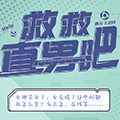
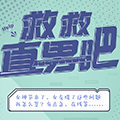
g

diff --git a/works/local/h5-game/2019-jineng/js/pace.min.js b/works/local/h5-game/2019-jineng/js/pace.min.js
@@ -1,3 +1,2 @@
 /*! pace 1.0.0 */
 (function(){var a,b,c,d,e,f,g,h,i,j,k,l,m,n,o,p,q,r,s,t,u,v,w,x,y,z,A,B,C,D,E,F,G,H,I,J,K,L,M,N,O,P,Q,R,S,T,U,V,W,X=[].slice,Y={}.hasOwnProperty,Z=function(a,b){function c(){this.constructor=a}for(var d in b)Y.call(b,d)&&(a[d]=b[d]);return c.prototype=b.prototype,a.prototype=new c,a.__super__=b.prototype,a},$=[].indexOf||function(a){for(var b=0,c=this.length;c>b;b++)if(b in this&&this[b]===a)return b;return-1};for(u={catchupTime:100,initialRate:.03,minTime:250,ghostTime:100,maxProgressPerFrame:20,easeFactor:1.25,startOnPageLoad:!0,restartOnPushState:!0,restartOnRequestAfter:500,target:"body",elements:{checkInterval:100,selectors:["body"]},eventLag:{minSamples:10,sampleCount:3,lagThreshold:3},ajax:{trackMethods:["GET"],trackWebSockets:!0,ignoreURLs:[]}},C=function(){var a;return null!=(a="undefined"!=typeof performance&&null!==performance&&"function"==typeof performance.now?performance.now():void 0)?a:+new Date},E=window.requestAnimationFrame||window.mozRequestAnimationFrame||window.webkitRequestAnimationFrame||window.msRequestAnimationFrame,t=window.cancelAnimationFrame||window.mozCancelAnimationFrame,null==E&&(E=function(a){return setTimeout(a,50)},t=function(a){return clearTimeout(a)}),G=function(a){var b,c;return b=C(),(c=function(){var d;return d=C()-b,d>=33?(b=C(),a(d,function(){return E(c)})):setTimeout(c,33-d)})()},F=function(){var a,b,c;return c=arguments[0],b=arguments[1],a=3<=arguments.length?X.call(arguments,2):[],"function"==typeof c[b]?c[b].apply(c,a):c[b]},v=function(){var a,b,c,d,e,f,g;for(b=arguments[0],d=2<=arguments.length?X.call(arguments,1):[],f=0,g=d.length;g>f;f++)if(c=d[f])for(a in c)Y.call(c,a)&&(e=c[a],null!=b[a]&&"object"==typeof b[a]&&null!=e&&"object"==typeof e?v(b[a],e):b[a]=e);return b},q=function(a){var b,c,d,e,f;for(c=b=0,e=0,f=a.length;f>e;e++)d=a[e],c+=Math.abs(d),b++;return c/b},x=function(a,b){var c,d,e;if(null==a&&(a="options"),null==b&&(b=!0),e=document.querySelector("[data-pace-"+a+"]")){if(c=e.getAttribute("data-pace-"+a),!b)return c;try{return JSON.parse(c)}catch(f){return d=f,"undefined"!=typeof console&&null!==console?console.error("Error parsing inline pace options",d):void 0}}},g=function(){function a(){}return a.prototype.on=function(a,b,c,d){var e;return null==d&&(d=!1),null==this.bindings&&(this.bindings={}),null==(e=this.bindings)[a]&&(e[a]=[]),this.bindings[a].push({handler:b,ctx:c,once:d})},a.prototype.once=function(a,b,c){return this.on(a,b,c,!0)},a.prototype.off=function(a,b){var c,d,e;if(null!=(null!=(d=this.bindings)?d[a]:void 0)){if(null==b)return delete this.bindings[a];for(c=0,e=[];c<this.bindings[a].length;)e.push(this.bindings[a][c].handler===b?this.bindings[a].splice(c,1):c++);return e}},a.prototype.trigger=function(){var a,b,c,d,e,f,g,h,i;if(c=arguments[0],a=2<=arguments.length?X.call(arguments,1):[],null!=(g=this.bindings)?g[c]:void 0){for(e=0,i=[];e<this.bindings[c].length;)h=this.bindings[c][e],d=h.handler,b=h.ctx,f=h.once,d.apply(null!=b?b:this,a),i.push(f?this.bindings[c].splice(e,1):e++);return i}},a}(),j=window.Pace||{},window.Pace=j,v(j,g.prototype),D=j.options=v({},u,window.paceOptions,x()),U=["ajax","document","eventLag","elements"],Q=0,S=U.length;S>Q;Q++)K=U[Q],D[K]===!0&&(D[K]=u[K]);i=function(a){function b(){return V=b.__super__.constructor.apply(this,arguments)}return Z(b,a),b}(Error),b=function(){function a(){this.progress=0}return a.prototype.getElement=function(){var a;if(null==this.el){if(a=document.querySelector(D.target),!a)throw new i;this.el=document.createElement("div"),this.el.className="pace pace-active",document.body.className=document.body.className.replace(/pace-done/g,""),document.body.className+=" pace-running",this.el.innerHTML='<div class="pace-progress">\n  <div class="pace-progress-inner"></div>\n</div>\n<div class="pace-activity"></div>',null!=a.firstChild?a.insertBefore(this.el,a.firstChild):a.appendChild(this.el)}return this.el},a.prototype.finish=function(){var a;return a=this.getElement(),a.className=a.className.replace("pace-active",""),a.className+=" pace-inactive",document.body.className=document.body.className.replace("pace-running",""),document.body.className+=" pace-done"},a.prototype.update=function(a){return this.progress=a,this.render()},a.prototype.destroy=function(){try{this.getElement().parentNode.removeChild(this.getElement())}catch(a){i=a}return this.el=void 0},a.prototype.render=function(){var a,b,c,d,e,f,g;if(null==document.querySelector(D.target))return!1;for(a=this.getElement(),d="translate3d("+this.progress+"%, 0, 0)",g=["webkitTransform","msTransform","transform"],e=0,f=g.length;f>e;e++)b=g[e],a.children[0].style[b]=d;return(!this.lastRenderedProgress||this.lastRenderedProgress|0!==this.progress|0)&&(a.children[0].setAttribute("data-progress-text",""+(0|this.progress)+"%"),this.progress>=100?c="99":(c=this.progress<10?"0":"",c+=0|this.progress),a.children[0].setAttribute("data-progress",""+c)),this.lastRenderedProgress=this.progress},a.prototype.done=function(){return this.progress>=100},a}(),h=function(){function a(){this.bindings={}}return a.prototype.trigger=function(a,b){var c,d,e,f,g;if(null!=this.bindings[a]){for(f=this.bindings[a],g=[],d=0,e=f.length;e>d;d++)c=f[d],g.push(c.call(this,b));return g}},a.prototype.on=function(a,b){var c;return null==(c=this.bindings)[a]&&(c[a]=[]),this.bindings[a].push(b)},a}(),P=window.XMLHttpRequest,O=window.XDomainRequest,N=window.WebSocket,w=function(a,b){var c,d,e,f;f=[];for(d in b.prototype)try{e=b.prototype[d],f.push(null==a[d]&&"function"!=typeof e?a[d]=e:void 0)}catch(g){c=g}return f},A=[],j.ignore=function(){var a,b,c;return b=arguments[0],a=2<=arguments.length?X.call(arguments,1):[],A.unshift("ignore"),c=b.apply(null,a),A.shift(),c},j.track=function(){var a,b,c;return b=arguments[0],a=2<=arguments.length?X.call(arguments,1):[],A.unshift("track"),c=b.apply(null,a),A.shift(),c},J=function(a){var b;if(null==a&&(a="GET"),"track"===A[0])return"force";if(!A.length&&D.ajax){if("socket"===a&&D.ajax.trackWebSockets)return!0;if(b=a.toUpperCase(),$.call(D.ajax.trackMethods,b)>=0)return!0}return!1},k=function(a){function b(){var a,c=this;b.__super__.constructor.apply(this,arguments),a=function(a){var b;return b=a.open,a.open=function(d,e){return J(d)&&c.trigger("request",{type:d,url:e,request:a}),b.apply(a,arguments)}},window.XMLHttpRequest=function(b){var c;return c=new P(b),a(c),c};try{w(window.XMLHttpRequest,P)}catch(d){}if(null!=O){window.XDomainRequest=function(){var b;return b=new O,a(b),b};try{w(window.XDomainRequest,O)}catch(d){}}if(null!=N&&D.ajax.trackWebSockets){window.WebSocket=function(a,b){var d;return d=null!=b?new N(a,b):new N(a),J("socket")&&c.trigger("request",{type:"socket",url:a,protocols:b,request:d}),d};try{w(window.WebSocket,N)}catch(d){}}}return Z(b,a),b}(h),R=null,y=function(){return null==R&&(R=new k),R},I=function(a){var b,c,d,e;for(e=D.ajax.ignoreURLs,c=0,d=e.length;d>c;c++)if(b=e[c],"string"==typeof b){if(-1!==a.indexOf(b))return!0}else if(b.test(a))return!0;return!1},y().on("request",function(b){var c,d,e,f,g;return f=b.type,e=b.request,g=b.url,I(g)?void 0:j.running||D.restartOnRequestAfter===!1&&"force"!==J(f)?void 0:(d=arguments,c=D.restartOnRequestAfter||0,"boolean"==typeof c&&(c=0),setTimeout(function(){var b,c,g,h,i,k;if(b="socket"===f?e.readyState<2:0<(h=e.readyState)&&4>h){for(j.restart(),i=j.sources,k=[],c=0,g=i.length;g>c;c++){if(K=i[c],K instanceof a){K.watch.apply(K,d);break}k.push(void 0)}return k}},c))}),a=function(){function a(){var a=this;this.elements=[],y().on("request",function(){return a.watch.apply(a,arguments)})}return a.prototype.watch=function(a){var b,c,d,e;return d=a.type,b=a.request,e=a.url,I(e)?void 0:(c="socket"===d?new n(b):new o(b),this.elements.push(c))},a}(),o=function(){function a(a){var b,c,d,e,f,g,h=this;if(this.progress=0,null!=window.ProgressEvent)for(c=null,a.addEventListener("progress",function(a){return h.progress=a.lengthComputable?100*a.loaded/a.total:h.progress+(100-h.progress)/2},!1),g=["load","abort","timeout","error"],d=0,e=g.length;e>d;d++)b=g[d],a.addEventListener(b,function(){return h.progress=100},!1);else f=a.onreadystatechange,a.onreadystatechange=function(){var b;return 0===(b=a.readyState)||4===b?h.progress=100:3===a.readyState&&(h.progress=50),"function"==typeof f?f.apply(null,arguments):void 0}}return a}(),n=function(){function a(a){var b,c,d,e,f=this;for(this.progress=0,e=["error","open"],c=0,d=e.length;d>c;c++)b=e[c],a.addEventListener(b,function(){return f.progress=100},!1)}return a}(),d=function(){function a(a){var b,c,d,f;for(null==a&&(a={}),this.elements=[],null==a.selectors&&(a.selectors=[]),f=a.selectors,c=0,d=f.length;d>c;c++)b=f[c],this.elements.push(new e(b))}return a}(),e=function(){function a(a){this.selector=a,this.progress=0,this.check()}return a.prototype.check=function(){var a=this;return document.querySelector(this.selector)?this.done():setTimeout(function(){return a.check()},D.elements.checkInterval)},a.prototype.done=function(){return this.progress=100},a}(),c=function(){function a(){var a,b,c=this;this.progress=null!=(b=this.states[document.readyState])?b:100,a=document.onreadystatechange,document.onreadystatechange=function(){return null!=c.states[document.readyState]&&(c.progress=c.states[document.readyState]),"function"==typeof a?a.apply(null,arguments):void 0}}return a.prototype.states={loading:0,interactive:50,complete:100},a}(),f=function(){function a(){var a,b,c,d,e,f=this;this.progress=0,a=0,e=[],d=0,c=C(),b=setInterval(function(){var g;return g=C()-c-50,c=C(),e.push(g),e.length>D.eventLag.sampleCount&&e.shift(),a=q(e),++d>=D.eventLag.minSamples&&a<D.eventLag.lagThreshold?(f.progress=100,clearInterval(b)):f.progress=100*(3/(a+3))},50)}return a}(),m=function(){function a(a){this.source=a,this.last=this.sinceLastUpdate=0,this.rate=D.initialRate,this.catchup=0,this.progress=this.lastProgress=0,null!=this.source&&(this.progress=F(this.source,"progress"))}return a.prototype.tick=function(a,b){var c;return null==b&&(b=F(this.source,"progress")),b>=100&&(this.done=!0),b===this.last?this.sinceLastUpdate+=a:(this.sinceLastUpdate&&(this.rate=(b-this.last)/this.sinceLastUpdate),this.catchup=(b-this.progress)/D.catchupTime,this.sinceLastUpdate=0,this.last=b),b>this.progress&&(this.progress+=this.catchup*a),c=1-Math.pow(this.progress/100,D.easeFactor),this.progress+=c*this.rate*a,this.progress=Math.min(this.lastProgress+D.maxProgressPerFrame,this.progress),this.progress=Math.max(0,this.progress),this.progress=Math.min(100,this.progress),this.lastProgress=this.progress,this.progress},a}(),L=null,H=null,r=null,M=null,p=null,s=null,j.running=!1,z=function(){return D.restartOnPushState?j.restart():void 0},null!=window.history.pushState&&(T=window.history.pushState,window.history.pushState=function(){return z(),T.apply(window.history,arguments)}),null!=window.history.replaceState&&(W=window.history.replaceState,window.history.replaceState=function(){return z(),W.apply(window.history,arguments)}),l={ajax:a,elements:d,document:c,eventLag:f},(B=function(){var a,c,d,e,f,g,h,i;for(j.sources=L=[],g=["ajax","elements","document","eventLag"],c=0,e=g.length;e>c;c++)a=g[c],D[a]!==!1&&L.push(new l[a](D[a]));for(i=null!=(h=D.extraSources)?h:[],d=0,f=i.length;f>d;d++)K=i[d],L.push(new K(D));return j.bar=r=new b,H=[],M=new m})(),j.stop=function(){return j.trigger("stop"),j.running=!1,r.destroy(),s=!0,null!=p&&("function"==typeof t&&t(p),p=null),B()},j.restart=function(){return j.trigger("restart"),j.stop(),j.start()},j.go=function(){var a;return j.running=!0,r.render(),a=C(),s=!1,p=G(function(b,c){var d,e,f,g,h,i,k,l,n,o,p,q,t,u,v,w;for(l=100-r.progress,e=p=0,f=!0,i=q=0,u=L.length;u>q;i=++q)for(K=L[i],o=null!=H[i]?H[i]:H[i]=[],h=null!=(w=K.elements)?w:[K],k=t=0,v=h.length;v>t;k=++t)g=h[k],n=null!=o[k]?o[k]:o[k]=new m(g),f&=n.done,n.done||(e++,p+=n.tick(b));return d=p/e,r.update(M.tick(b,d)),r.done()||f||s?(r.update(100),j.trigger("done"),setTimeout(function(){return r.finish(),j.running=!1,j.trigger("hide")},Math.max(D.ghostTime,Math.max(D.minTime-(C()-a),0)))):c()})},j.start=function(a){v(D,a),j.running=!0;try{r.render()}catch(b){i=b}return document.querySelector(".pace")?(j.trigger("start"),j.go()):setTimeout(j.start,50)},"function"==typeof define&&define.amd?define(function(){return j}):"object"==typeof exports?module.exports=j:D.startOnPageLoad&&j.start()}).call(this);
-/*  |xGv00|118b146dce0453f17e4eedf2c4497cb4 */

diff --git a/works/local/h5-game/38nvshen/js/audio.min.js b/works/local/h5-game/38nvshen/js/audio.min.js
@@ -22,4 +22,3 @@ l)}},q=function(){try{i.doScroll("left")}catch(l){setTimeout(q,50);return}m("pol
 loadError:function(){this.settings.loadError.apply(this)},init:function(){this.settings.init.apply(this)},loadStarted:function(){if(!this.element.duration)return false;this.duration=this.element.duration;this.updatePlayhead();this.settings.loadStarted.apply(this)},loadProgress:function(){if(this.element.buffered!=null&&this.element.buffered.length){if(!this.loadStartedCalled)this.loadStartedCalled=this.loadStarted();this.loadedPercent=this.element.buffered.end(this.element.buffered.length-1)/this.duration;
 this.settings.loadProgress.apply(this,[this.loadedPercent])}},playPause:function(){this.playing?this.pause():this.play()},play:function(){/(ipod|iphone|ipad)/i.test(navigator.userAgent)&&this.element.readyState==0&&this.init.apply(this);if(!this.settings.preload){this.settings.preload=true;this.element.setAttribute("preload","auto");g[h].events.trackLoadProgress(this)}this.playing=true;this.element.play();this.settings.play.apply(this)},pause:function(){this.playing=false;this.element.pause();this.settings.pause.apply(this)},
 setVolume:function(b){this.element.volume=b},trackEnded:function(){this.skipTo.apply(this,[0]);this.settings.loop||this.pause.apply(this);this.settings.trackEnded.apply(this)}};var j=function(b,a){var c=[];a=a||document;if(a.getElementsByClassName)c=a.getElementsByClassName(b);else{var d,e,i=a.getElementsByTagName("*"),f=RegExp("(^|\\s)"+b+"(\\s|$)");d=0;for(e=i.length;d<e;d++)f.test(i[d].className)&&c.push(i[d])}return c.length>1?c:c[0]}})("audiojs","audiojsInstance",this);
-/*  |xGv00|cdc51bbd5af33c874f75e50a403bb6d3 */
